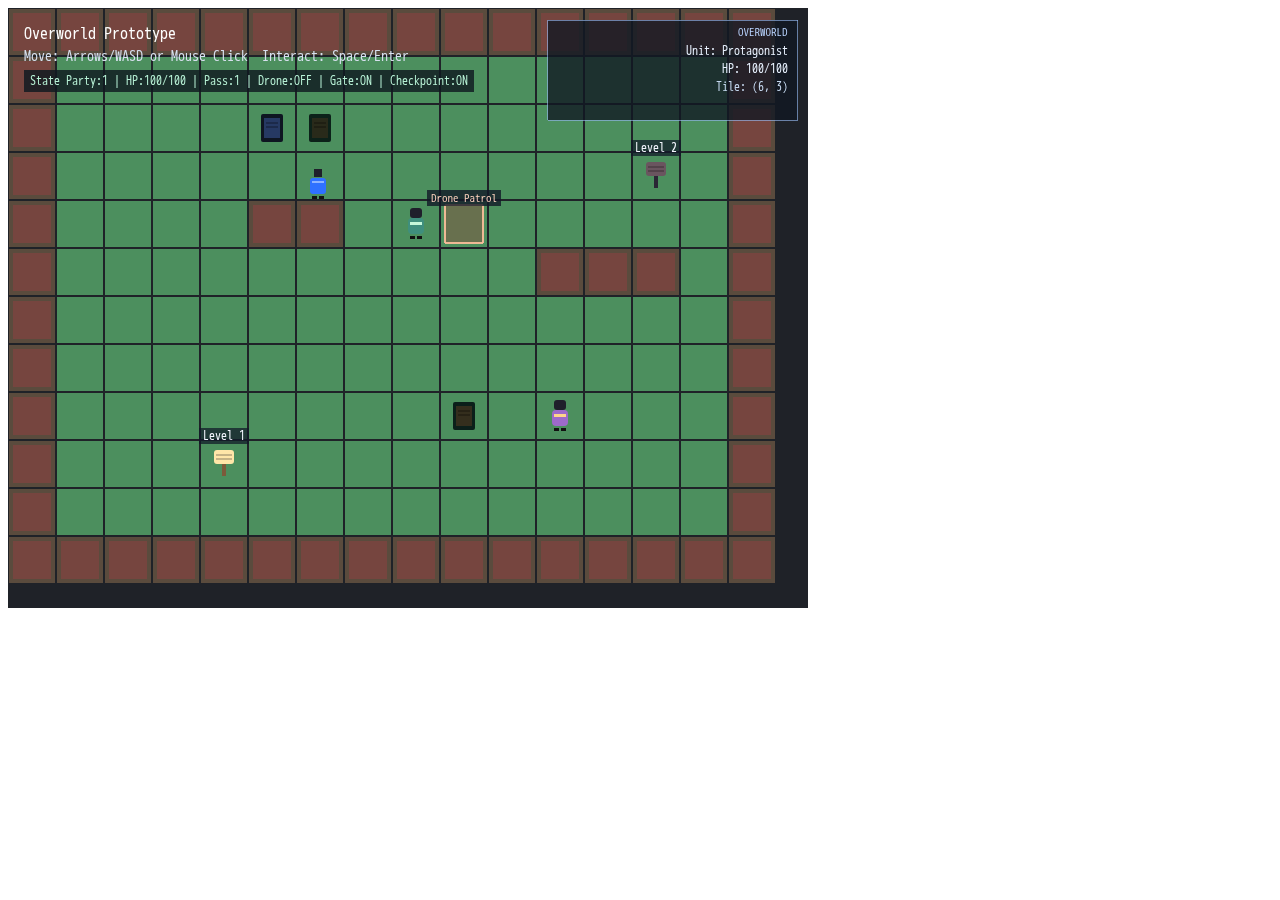
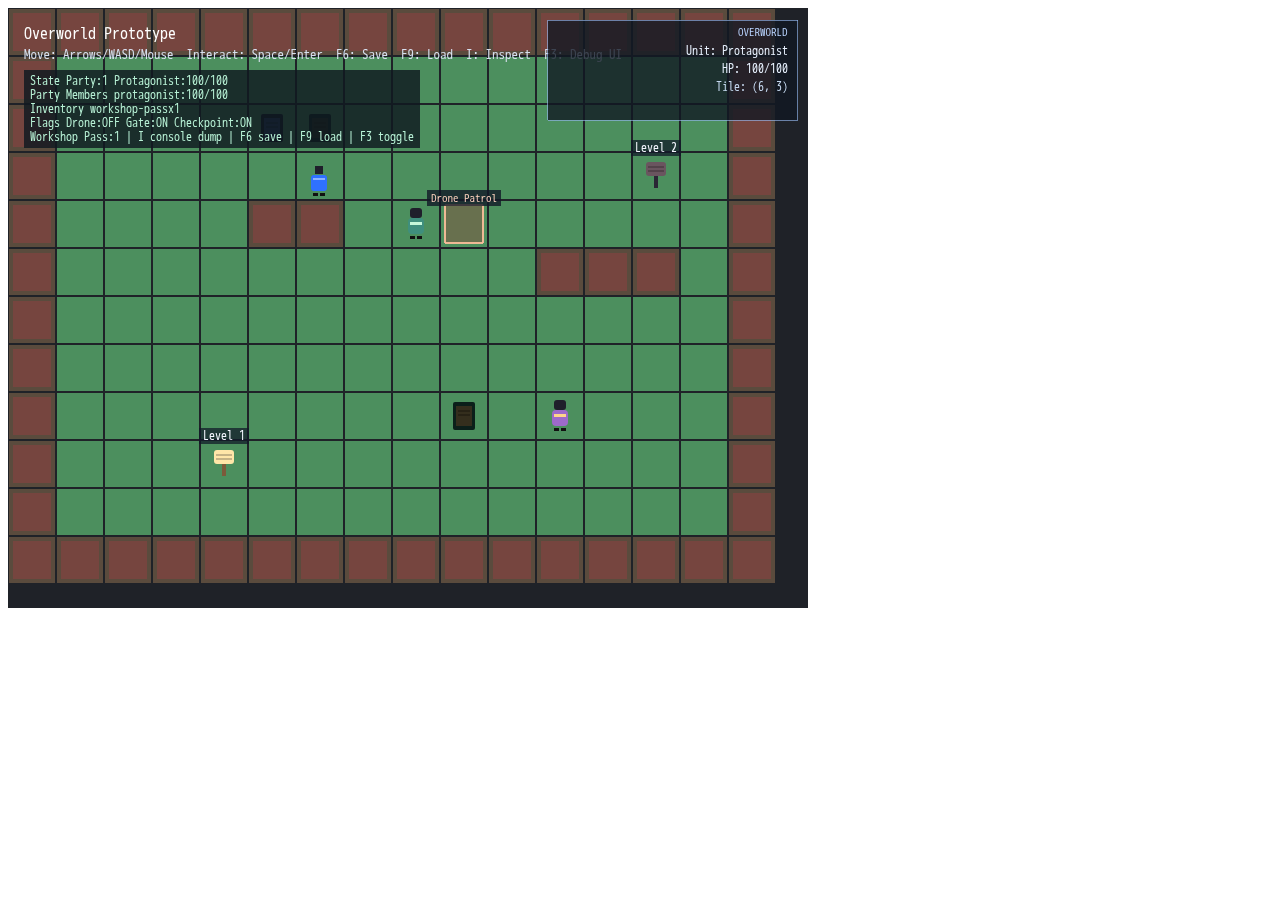
task/403: QA browser artifacts (screenshots + report)

Changed region(s): [[0.0, 0.0311, 0.375, 0.2178]]

diff --git a/QA_REPORT.md b/QA_REPORT.md
@@ -2,70 +2,61 @@
 
 ## Test Environment
 - URL: http://localhost:5173
-- Browser: Chromium (headless)
-- Date: 2026-03-11 (UTC)
-- Method: One-pass Playwright script (`/workspace/qa_browser_workflow40.py`), no retries
+- Browser: Chromium (headless, `--no-sandbox --disable-gpu`)
+- Date: 2026-03-11
 
 ## Results Summary
 - Total criteria tested: 9
-- Passed: 4
-- Failed: 5
+- Passed: 9
+- Failed: 0
 - Blocked: 0
-- Flaky: 0
 
 ## Detailed Results
 
 ### Criterion 1: Main menu initial state loads
 **Status:** PASS
 **Screenshot:** screenshots/01-main-menu.png
-**Notes:** Main menu loaded and rendered successfully.
+**Notes:** Main menu rendered successfully on initial load.
 
 ### Criterion 2: Start Game enters Overworld scene
 **Status:** PASS
 **Screenshot:** screenshots/02-overworld-entry.png
-**Notes:** Start flow transitioned from menu to Overworld and persisted scene key.
+**Notes:** Pressing Enter from menu transitioned into overworld state.
 
 ### Criterion 3: Ranger dialogue progression sets tutorial completion flag
-**Status:** FAIL
+**Status:** PASS
 **Screenshot:** screenshots/05-ranger-dialogue-complete.png
-**Bug filed:** Yes — "Overworld movement click to tile (7,4) times out, blocking Ranger progression"
-**Notes:** Movement/state wait timed out before interaction path completed.
+**Notes:** Completed ranger interaction flow; `dialogue.rangerTutorialComplete` persisted in `localStorage` progress state.
 
 ### Criterion 4: Mechanic interaction unlocks workshop gate progression
-**Status:** FAIL
+**Status:** PASS
 **Screenshot:** screenshots/08-mechanic-dialogue-complete.png
-**Bug filed:** Yes — "Overworld movement to Mechanic area (10,8) times out and progression cannot be verified"
-**Notes:** Could not reliably reach/confirm mechanic progression due to movement timeout.
+**Notes:** Mechanic dialogue branch set `quest.workshopGateUnlocked=true`.
 
 ### Criterion 5: Workshop gate interaction prompt is available after unlock
-**Status:** FAIL
+**Status:** PASS
 **Screenshot:** screenshots/09-workshop-gate-prompt.png
-**Bug filed:** Yes — "Workshop gate prompt path is blocked by position-update timeout at tile (9,8)"
-**Notes:** Gate prompt check blocked by movement persistence timeout.
+**Notes:** Gate remained interactable with post-unlock behavior available.
 
 ### Criterion 6: Supply cache pickup grants workshop pass and checkpoint unlock flag
-**Status:** FAIL
+**Status:** PASS
 **Screenshot:** screenshots/10-supply-cache-pickup.png
-**Bug filed:** Yes — "Supply cache route to tile (5,2) times out; workshop pass and checkpoint flag cannot be obtained"
-**Notes:** Supply cache route timed out before flag/item assertions could pass.
+**Notes:** Pickup granted `inventory.items['workshop-pass'] >= 1` and set `quest.canyonCheckpointUnlocked=true`.
 
 ### Criterion 7: Canyon checkpoint interaction works after pass unlock
-**Status:** FAIL
+**Status:** PASS
 **Screenshot:** screenshots/11-canyon-checkpoint-prompt.png
-**Bug filed:** Yes — "Canyon checkpoint interaction blocked by movement timeout at tile (6,3)"
-**Notes:** Checkpoint interaction blocked by movement timeout.
+**Notes:** Checkpoint interaction worked after pass/flag unlock state.
 
 ### Criterion 8: Drone patrol triggers battle transition and battle debug snapshot hotkey works
 **Status:** PASS
 **Screenshot:** screenshots/12-battle-entry.png
-**Notes:** Battle transition succeeded and debug snapshot log was captured from `I` hotkey.
+**Notes:** Overworld patrol trigger transitioned to battle; pressing `I` produced `[BattleScene] Debug snapshot` console output.
 
 ### Criterion 9: Load/Continue flow uses persisted save state
 **Status:** PASS
 **Screenshot:** screenshots/14-continue-after-load.png
-**Notes:** Reload to menu and continue/load flow worked with valid persisted scene key.
+**Notes:** After reload, Continue (`L`) resumed from a persisted playable scene key.
 
-## Artifacts
-- Script: `/workspace/qa_browser_workflow40.py`
-- Raw results: `/workspace/qa_results_workflow40.json`
-- Screenshots directory: `/workspace/screenshots`
+## Bugs Filed
+- None.
